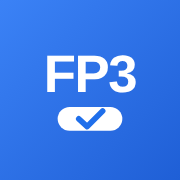
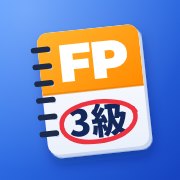
アイコンを作り直す:オレンジの表紙のドリル帳に「FP」と赤まるの「3級」
- iPhone・Android・タブの小さいサイズでも読めるように、文字は FP と 3級 だけ
- Android の丸いアイコン用に、中身を小さくした icon-maskable-512.png を分けた
- sw.js のキャッシュの名前を変えて、新しいアイコンを取り直す

Claude-Session: https://claude.ai/code/session_01AYZppAw4RotiWUY3GRP9AP

diff --git a/sw.js b/sw.js
@@ -1,10 +1,10 @@
 /* 電波がなくても開けるように、アプリのファイルを端末に保存しておく(Service Worker)。
    ネットにつながるときは毎回新しいファイルを取りに行き(更新がすぐ届く)、届かないときだけ保存した分を使う。
    ファイルを足したら FILES にも足す。AI に質問(Worker)など、ほかのサイトへの通信には関わらない */
-var CACHE = 'fp3-v2';
+var CACHE = 'fp3-v3';
 var FILES = [
   './', 'index.html', 'style.css', 'app.js', 'questions.js', 'cases.js', 'config.js',
-  'manifest.webmanifest', 'icons/icon-192.png', 'icons/icon-512.png', 'icons/apple-touch-icon.png'
+  'manifest.webmanifest', 'icons/icon-192.png', 'icons/icon-512.png', 'icons/apple-touch-icon.png', 'icons/icon-maskable-512.png'
 ];
 var TIMEOUT_MS = 4000;   // 電波が弱いとき、これだけ待っても届かなければ保存した分を出す
 
